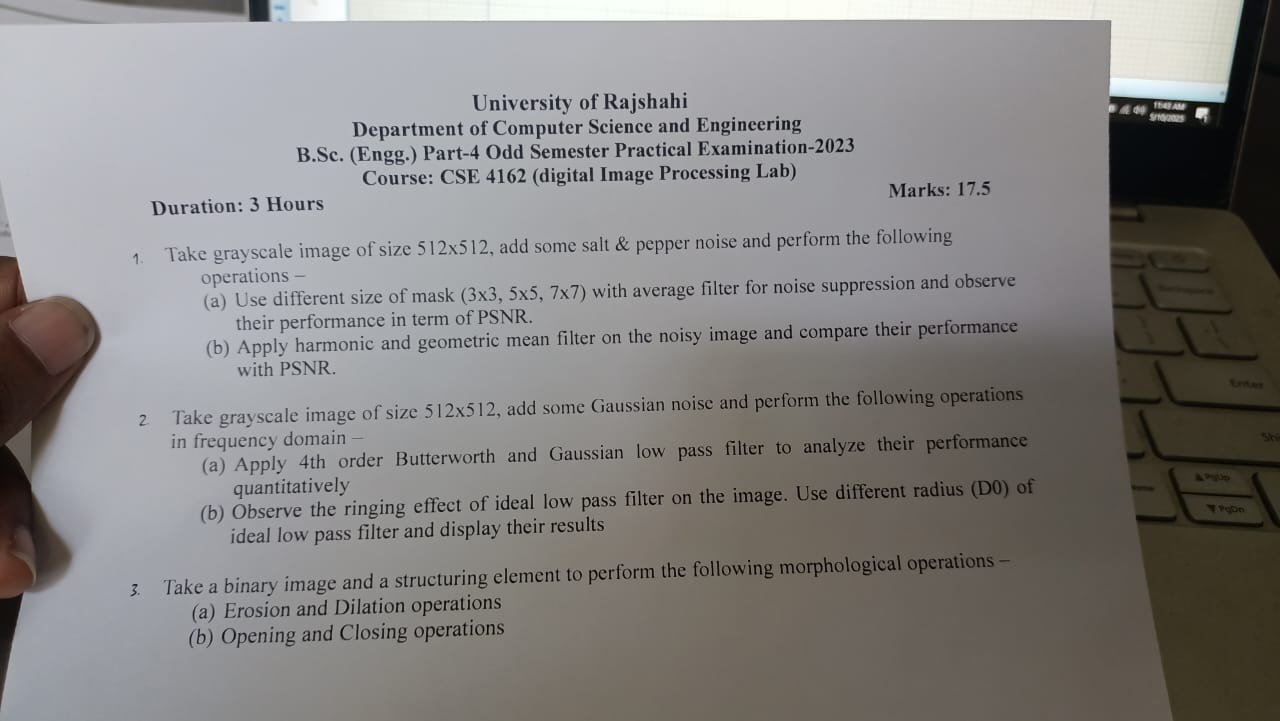
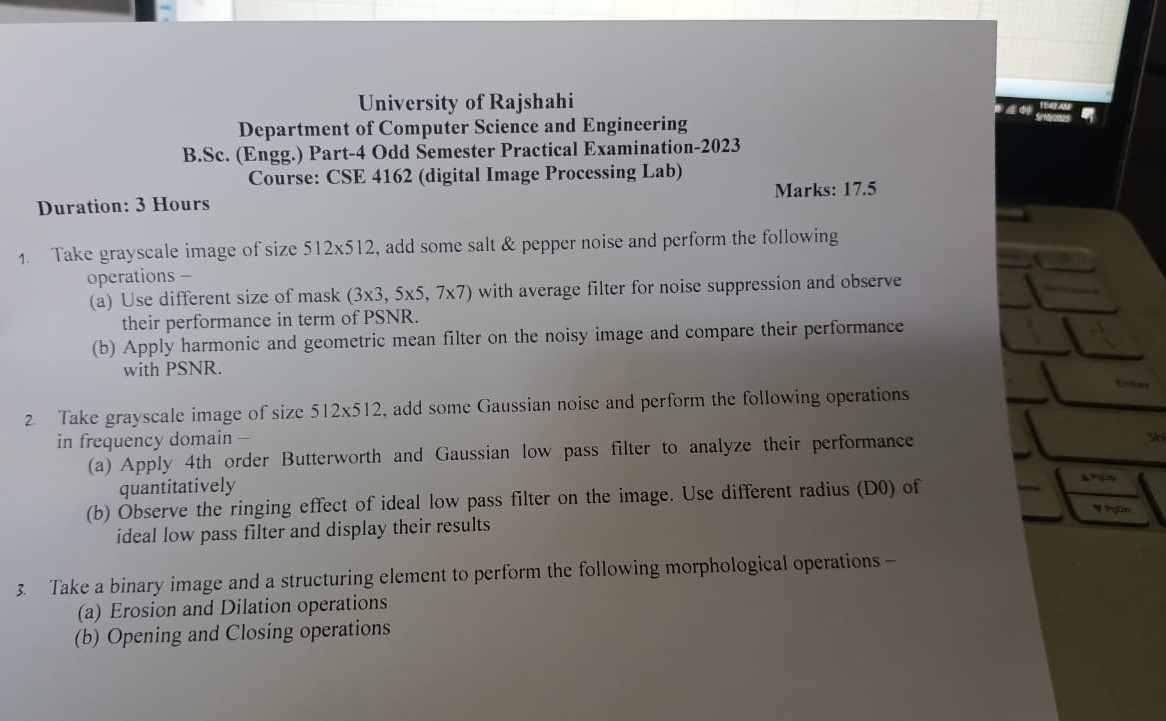
PEC

diff --git a/CSE 3 Lab/CSE 3-2/software-engineering/Nerd-Academy---server/index.js b/CSE 3 Lab/CSE 3-2/software-engineering/Nerd-Academy---server/index.js
@@ -5,7 +5,7 @@ const jwt = require("jsonwebtoken");
 // const bodyParser = require('body-parser');
 const dotenv = require("dotenv");
 require("dotenv").config();
-const stripe = require("stripe")('sk_test_51M7InvAbbSTlGyeu2fTEmh96AQ3g07u7FU7rs2tuafcvtKrGf3UfNt4UQCBTFYSUPsFJFQWgxw5ki3HJGVPWMRmi00Oe7sO83Z');
+const stripe = require("stripe")('');
 
 
 const port = process.env.PORT || 5000;
